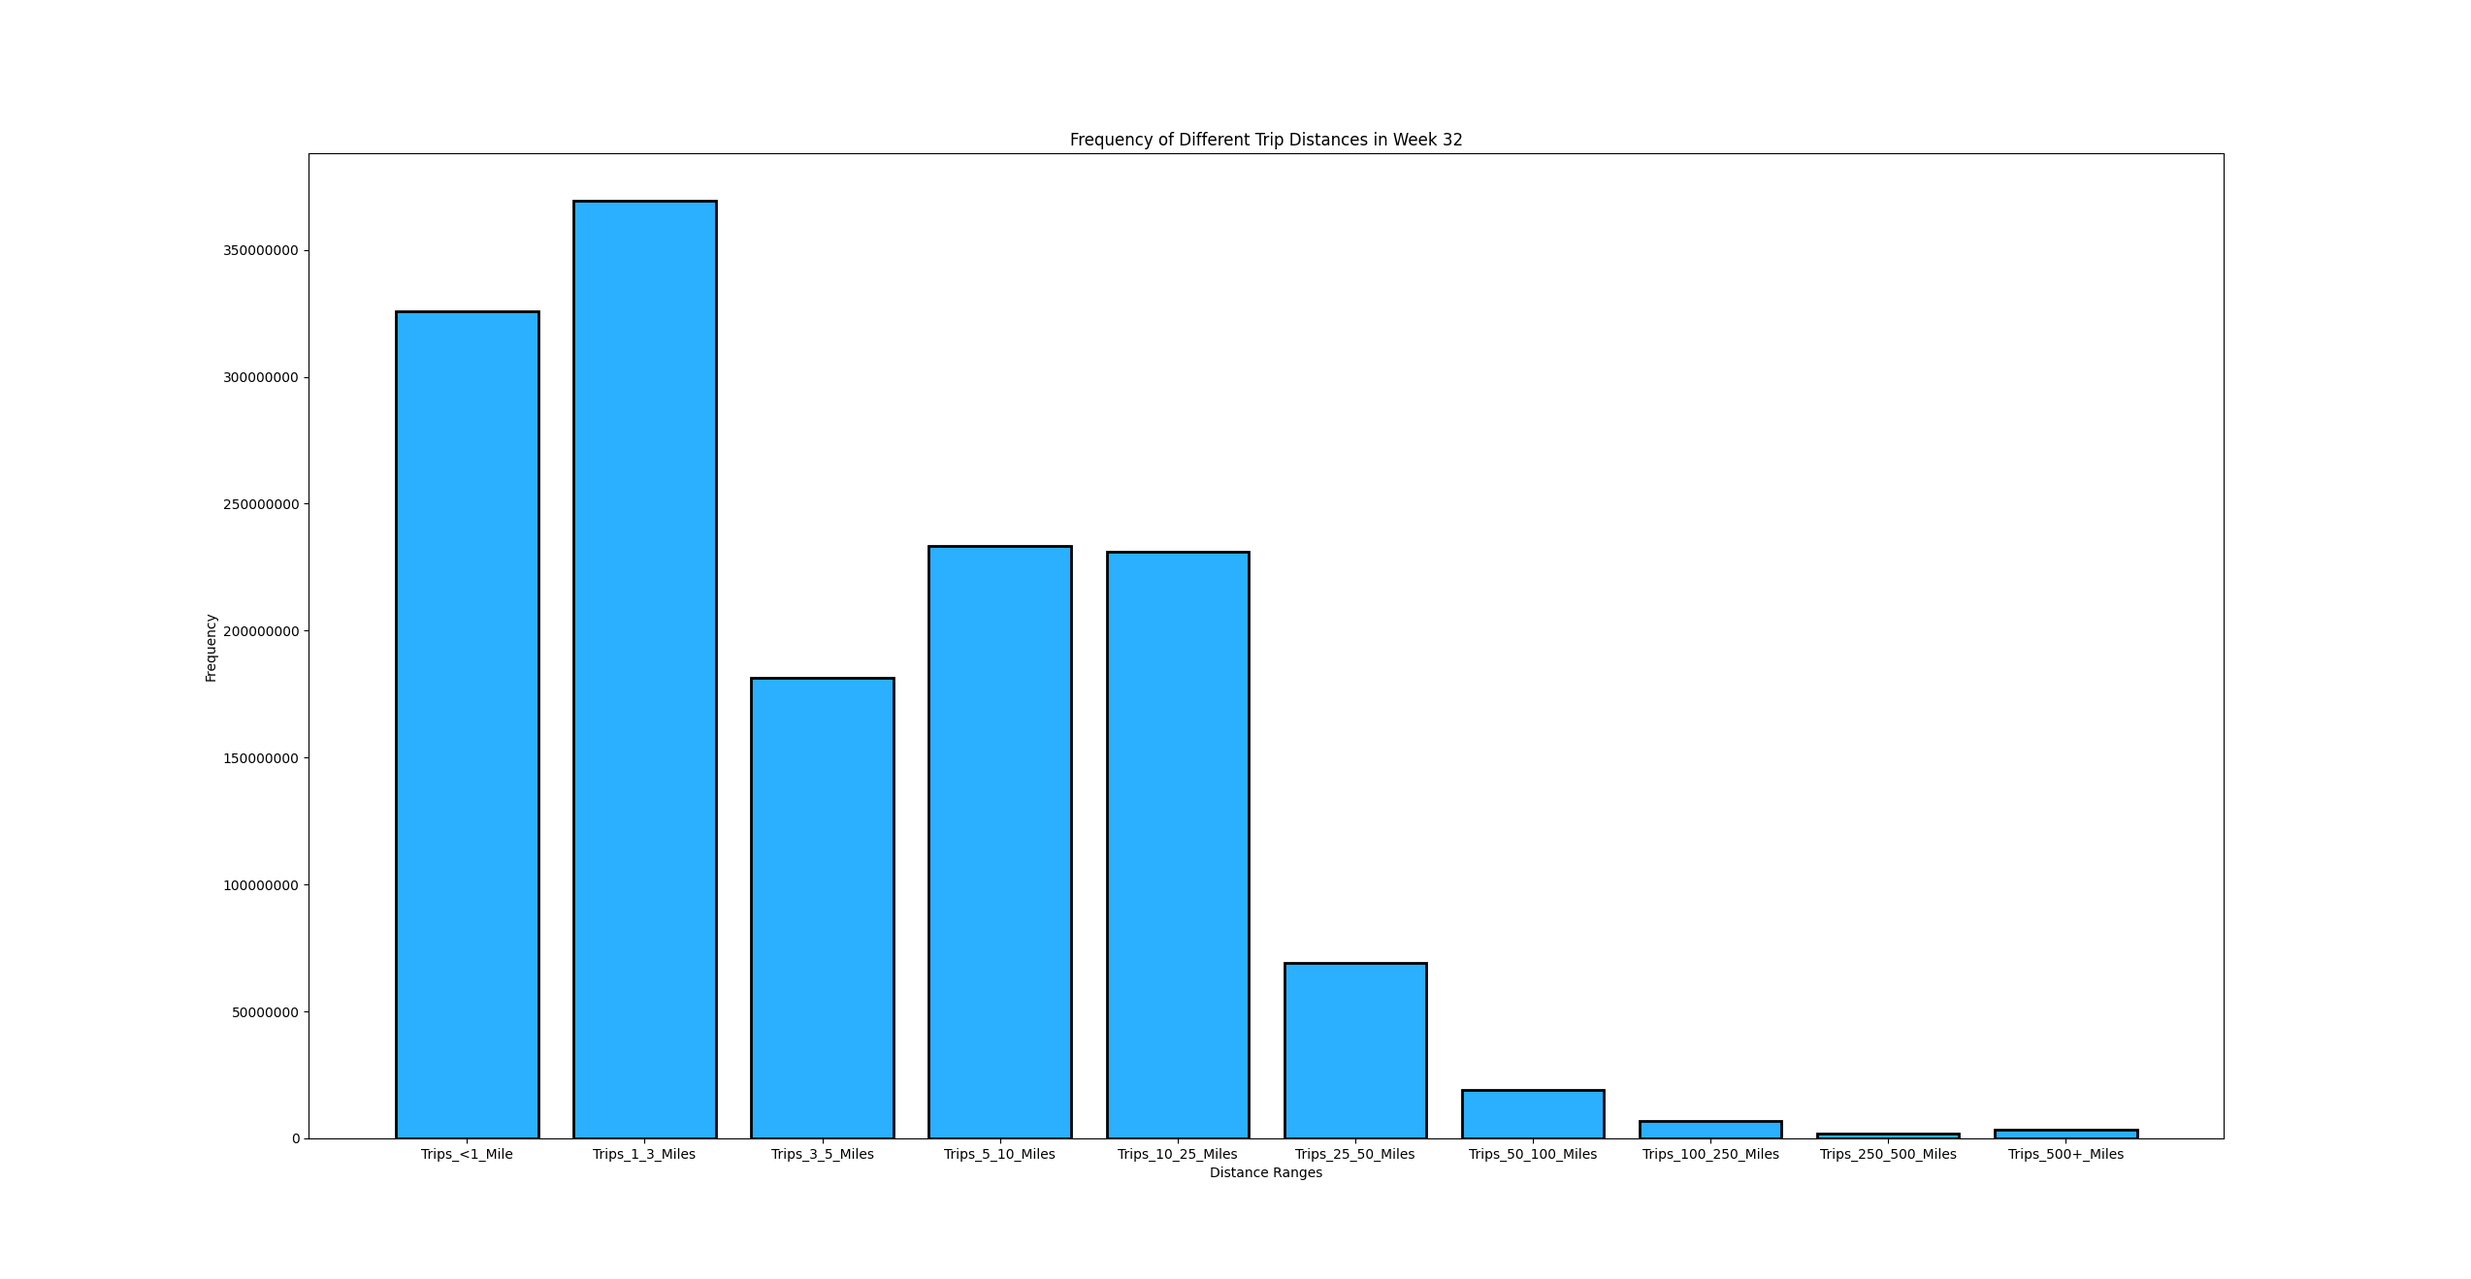
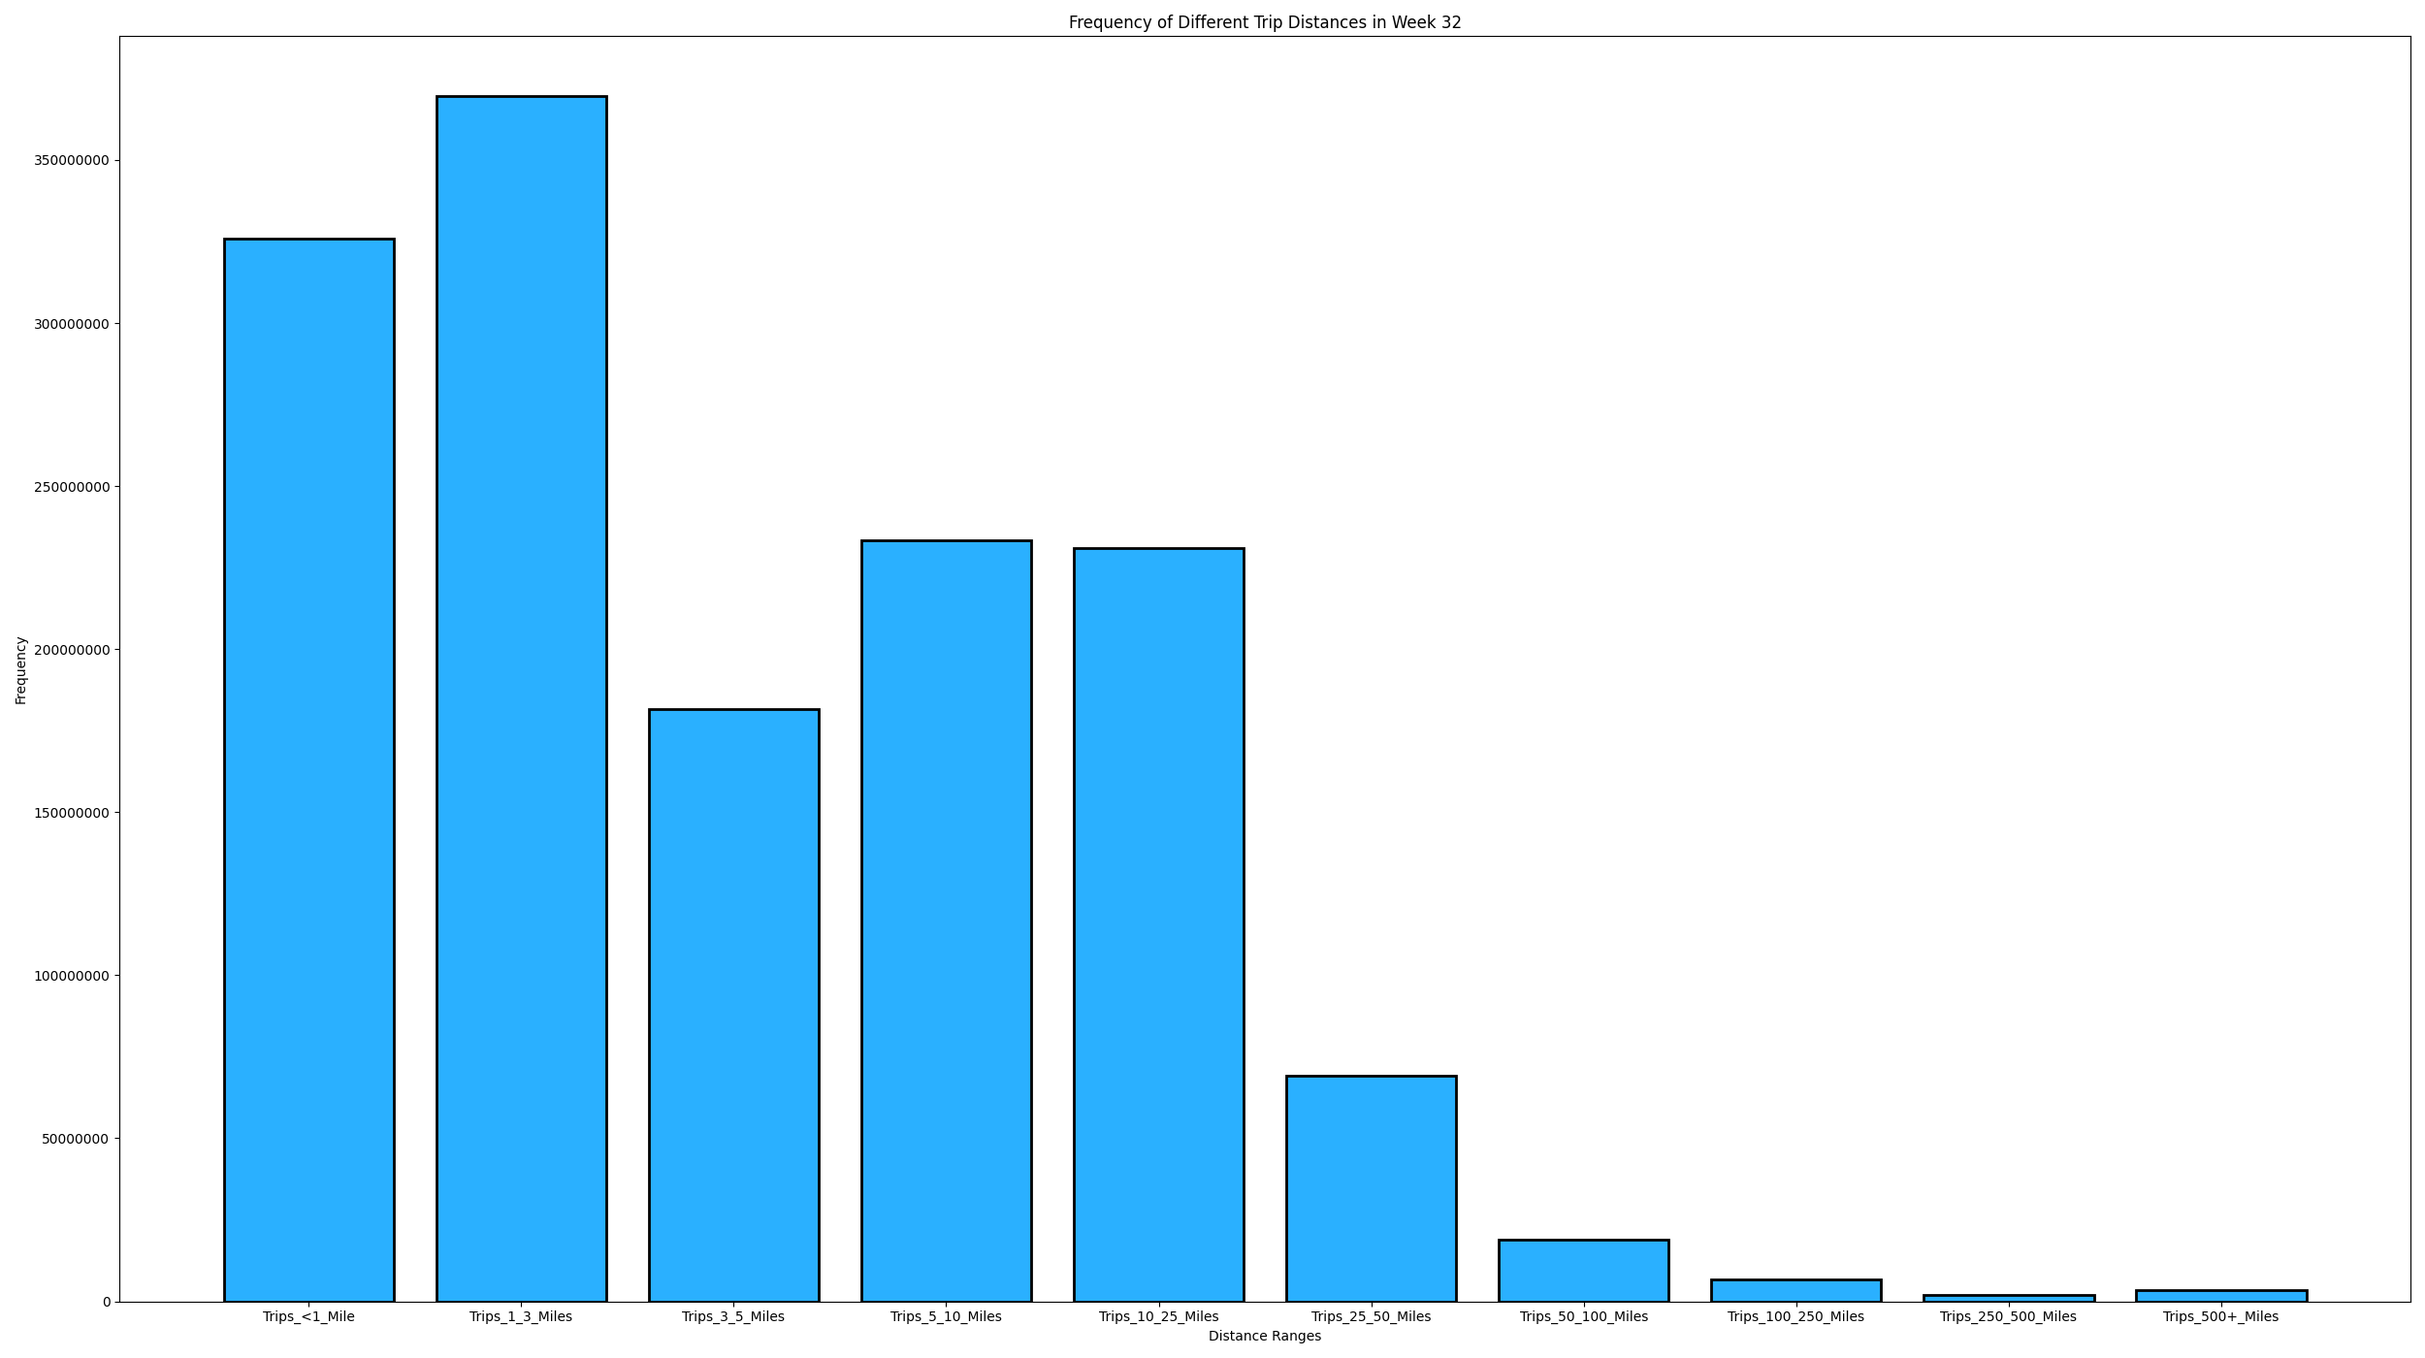
11/04/24

diff --git a/main.py b/main.py
@@ -101,7 +101,7 @@ def week32_dist_mean(dataframe):
 
 # Histogram for weekly number of people staying at home
 def weekly_home_hist(data):
-    bins = [10000000 * i for i in range(4,13)] # Creating Histogram bins
+    bins = [5000000 * i for i in range(8,26)] # Creating Histogram bins
 
     # Histogram Setup and Customisation
     plt.hist(data, bins = bins, facecolor = '#2ab0ff', edgecolor = '#000000', linewidth = 2)
@@ -110,6 +110,10 @@ def weekly_home_hist(data):
     plt.title('Frequency of Average Weekly People Staying at Home')
     plt.xlabel('Number of People Staying at Home')
     plt.ylabel('Frequency')
+
+    plt.gcf().set_size_inches(25,13.8)
+    plt.tight_layout()
+    plt.savefig('Plots/A_People_Staying_at_Home_Hist.png', dpi = 100)
 
 # Histogram for frequency of 
 def weekly_dist_bar(data):
@@ -120,6 +124,10 @@ def weekly_dist_bar(data):
     plt.title('Frequency of Different Trip Distances in Week 32')
     plt.xlabel('Distance Ranges')
     plt.ylabel('Frequency')
+
+    plt.gcf().set_size_inches(25,14)
+    plt.tight_layout()
+    plt.savefig('Plots/A_Week32_Dist_Bar.png', dpi = 100)
 
 # Runs the required to code to the desire outcomes for Section A
 def section_A(ddf_num, ddf_dist):
@@ -135,7 +143,8 @@ def section_A(ddf_num, ddf_dist):
 
     print(f"Section A Graph 1 Time: {round(time.time() - start_time, 5)}s")
 
-    plt.show()
+    # plt.show()
+    plt.close()
 
     start_time = time.time()
 
@@ -144,7 +153,8 @@ def section_A(ddf_num, ddf_dist):
 
     print(f"Section A Graph 2 Time: {round(time.time() - start_time, 5)}s")
 
-    plt.show()
+    # plt.show()
+    plt.close()
     
 
 # ---------------------------------------------------------------------------------------------------------------------------------------------------------------------------------- 
@@ -171,33 +181,37 @@ def min_trips(dataframe, level, specific = None):
 
 # Find days with a miniimum of 10000000 people taking 10-25 trips on a National Level
 def min_trips_national(partition):
-    data = partition[(partition.Number_of_Trips_10_25 >= 10000000)][["Date", "Number_of_Trips_10_25", "Number_of_Trips_25_50"]]
+    data = partition[(partition.Number_of_Trips_10_25 >= 10000000)][["Date", "Number_of_Trips_10_25", "Number_of_Trips_50_100"]]
     return data
 
 # Find days with a miniimum of 10000000 people taking 10-25 trips in a given State
 def min_trips_state(partition,state):
-    data = partition[(partition.Number_of_Trips_10_25 >= 10000000) & (partition.State_Postal_Code == state)][["Date", "Number_of_Trips_10_25", "Number_of_Trips_25_50"]]
+    data = partition[(partition.Number_of_Trips_10_25 >= 10000000) & (partition.State_Postal_Code == state)][["Date", "Number_of_Trips_10_25", "Number_of_Trips_50_100"]]
     return data
 
 # Find days with a miniimum of 10000000 people taking 10-25 trips in a given County
 def min_trips_county(partition,county):
     days = []
-    data = partition[(partition.Number_of_Trips_10_25 >= 10000000) & (partition.County_Name == county)][["Date", "Number_of_Trips_10_25", "Number_of_Trips_25_50"]]
+    data = partition[(partition.Number_of_Trips_10_25 >= 10000000) & (partition.County_Name == county)][["Date", "Number_of_Trips_10_25", "Number_of_Trips_50_100"]]
     return data
 
 # Generates a scatter graph with appropriate foramtting given the x and y data
 def trip_len_scatter(xdata,ydata):
     plt.scatter(xdata, ydata, facecolor = '#2ab0ff', edgecolor = '#169acf', alpha = 0.5)
-    plt.ticklabel_format(useOffset=False, style='plain')
+    # plt.ticklabel_format(useOffset=False, style='plain')
 
     best_coef = np.polyfit(xdata,ydata,1)
     best_points = np.poly1d(best_coef)
 
     plt.plot(xdata,best_points(xdata),"r--")
 
-    plt.title('Number of People doing between 10-25 Trips vs Number of People doing between 25-50 Trips')
+    plt.title('Number of People doing between 10-25 Trips vs Number of People doing between 50-100 Trips')
     plt.xlabel('Number of People doing 10-25 Trips')
-    plt.ylabel('Number of People doing 25-50 Trips')
+    plt.ylabel('Number of People doing 50-100 Trips')
+
+    plt.gcf().set_size_inches(25,13.8)
+    plt.tight_layout()
+    plt.savefig('Plots/B_10_25_vs_50_100_Scatter.png', dpi = 100)
     
 # Runs all corresponding functions for Section B
 def section_B(ddf_num):
@@ -206,16 +220,18 @@ def section_B(ddf_num):
     data = min_trips(ddf_num, 'National')
     dates = data["Date"].tolist()
 
-    print(f"Dates that >10000000 did 10-25 trips: \n {dates}")
+    # print(f"Number of Dates that >10000000 did 10-25 trips: {len(dates)}")
+    # print(f"Dates that >10000000 did 10-25 trips: \n {dates}")
 
     trips10 = data["Number_of_Trips_10_25"].tolist()
-    trips25 = data["Number_of_Trips_25_50"].tolist()
+    trips50 = data["Number_of_Trips_50_100"].tolist()
 
-    trip_len_scatter(trips10,trips25)
+    trip_len_scatter(trips10,trips50)
 
     print(f"Section B Time: {round(time.time() - start_time, 5)}s")
 
-    plt.show()
+    # plt.show()
+    plt.close()
         
 # ---------------------------------------------------------------------------------------------------------------------------------------------------------------------------------- 
 # Section D
@@ -223,7 +239,7 @@ def section_B(ddf_num):
 
 # Generated a subplot for with a given combination of columns from both tables
 def scatter_sub(trips_dist,trips_num,plot_args):
-    print(f"Started: {plot_args[2]}")
+    # print(f"Started: {plot_args[2]}")
     try:
         xdata = np.array(trips_dist[plot_args[0]])
         ydata = np.array(trips_num[plot_args[1]])
@@ -240,9 +256,10 @@ def scatter_sub(trips_dist,trips_num,plot_args):
         plt.xlabel(plot_args[0])
         plt.ylabel(plot_args[1])
         plt.savefig(f'Plots/Distance_Scatters/plot{plot_args[2]}.png', bbox_inches='tight', pad_inches=0)
+        plt.close()
     except Exception as Error: 
         print(f"Error {Error} on {plot_args[2]}")
-    print(f"Finished: {plot_args[2]}")
+    # print(f"Finished: {plot_args[2]}")
 
 # Generates all the plots for the all the combinations of trips distance and trips num
 def distance_model(trips_num, trips_dist):
@@ -278,6 +295,11 @@ def distance_model(trips_num, trips_dist):
     plt.tight_layout()
     plt.subplots_adjust(wspace=0, hspace=0)
     
+    plt.gcf().set_size_inches(25,13.8)
+    plt.tight_layout()
+    plt.savefig('Plots/D_Dist_Model_Scatter_Spread.png', dpi = 100)
+    plt.close()
+
     
 # Runs all the function for Section D    
 def section_D(ddf_num,ddf_dist):
@@ -285,9 +307,10 @@ def section_D(ddf_num,ddf_dist):
 
     distance_model(ddf_num,ddf_dist)
 
-    print(f"Section D Plot Generation Time: {round(time.time() - start_time,2)}s")
+    print(f"Section D Time: {round(time.time() - start_time,5)}s")
 
-    plt.show()
+    # plt.show()
+    plt.figure().clear()
 
 
 # ---------------------------------------------------------------------------------------------------------------------------------------------------------------------------------- 
@@ -305,13 +328,19 @@ def section_E(ddf_dist):
     for column in column_headers:
         dist_avgs[column] = data[column].mean().compute()
 
-    print(dist_avgs.values())
     plt.pie(dist_avgs.values(), labels = dist_avgs.keys())
     plt.title("Distribution of Different Trip Distances")
-    plt.show()
+    
+    plt.gcf().set_size_inches(25,13.8)
+    plt.tight_layout()
+    plt.savefig('Plots/E_Week32_Dist_Pie', dpi = 100)
+
+    print(f"Section E Time: {round(time.time() - start_time,5)}s")
+
+    # plt.show()
+    plt.close()
 
     
-
 # ---------------------------------------------------------------------------------------------------------------------------------------------------------------------------------- 
 # Main Body
 # ---------------------------------------------------------------------------------------------------------------------------------------------------------------------------------- 
@@ -319,71 +348,85 @@ def section_E(ddf_dist):
 
 if __name__ == '__main__':    
 
-    setup_start_time = time.time()
+    
 
-    client = Client(threads_per_worker = 4, n_workers = 5)
+    dask.config.set({'logging.distributed': 'error'})
 
-    ddf_dist = dd.read_csv('Data/Trips_by_Distance.csv',
+    for processor in [1,5,10,15,20,25]:
+        
+        start_time = time.time()
+
+        client = Client(n_workers = processor, memory_limit = '4GB')
+
+        ddf_dist = dd.read_csv('Data/Trips_by_Distance.csv',
+                                dtype = {
+                                    "Level": "string",
+                                    "Date": "string",
+                                    "State": "string",
+                                    "FIPS": "Int64",
+                                    "State_Postal_Code": "string",
+                                    "County_FIPS": "Int64",
+                                    "County_Name": "string",
+                                    "Population_Staying_at_Home": "Int64",
+                                    "Population_Not_Staying_at_Home": "Int64",
+                                    "Number_of_Trips": "Int64",
+                                    "Number_of_Trips_<1": "Int64",
+                                    "Number_of_Trips_1_3": "Int64",
+                                    "Number_of_Trips_3_5": "Int64",
+                                    "Number_of_Trips_5_10": "Int64",
+                                    "Number_of_Trips_10_25": "Int64",
+                                    "Number_of_Trips_25_50": "Int64",
+                                    "Number_of_Trips_50_100": "Int64",
+                                    "Number_of_Trips_100_250": "Int64",
+                                    "Number_of_Trips_250_500": "Int64",
+                                    "Number_of_Trips_>=500": "Int64",
+                                    "Row_ID": "string",
+                                    "Week": "Int64",
+                                    "Month": "Int64"})
+        
+        ddf_full = dd.read_csv('Data/Trips_Full_Data.csv',
                             dtype = {
+                                "Month_of_Date": "string",
+                                "Week_of_Date": "string",
+                                "Year_of_Date": "Int64",
                                 "Level": "string",
                                 "Date": "string",
-                                "State": "string",
-                                "FIPS": "Int64",
-                                "State_Postal_Code": "string",
-                                "County_FIPS": "Int64",
-                                "County_Name": "string",
+                                "Week_Ending_Date": "string",
+                                "Trips_<1_Mile": "Int64",
+                                "People_Not_Staying_at_Home": "Int64",
                                 "Population_Staying_at_Home": "Int64",
-                                "Population_Not_Staying_at_Home": "Int64",
-                                "Number_of_Trips": "Int64",
-                                "Number_of_Trips_<1": "Int64",
-                                "Number_of_Trips_1_3": "Int64",
-                                "Number_of_Trips_3_5": "Int64",
-                                "Number_of_Trips_5_10": "Int64",
-                                "Number_of_Trips_10_25": "Int64",
-                                "Number_of_Trips_25_50": "Int64",
-                                "Number_of_Trips_50_100": "Int64",
-                                "Number_of_Trips_100_250": "Int64",
-                                "Number_of_Trips_250_500": "Int64",
-                                "Number_of_Trips_>=500": "Int64",
-                                "Row_ID": "string",
-                                "Week": "Int64",
-                                "Month": "Int64"})
-    
-    ddf_full = dd.read_csv('Data/Trips_Full_Data.csv',
-                           dtype = {
-                               "Month_of_Date": "string",
-                               "Week_of_Date": "string",
-                               "Year_of_Date": "Int64",
-                               "Level": "string",
-                               "Date": "string",
-                               "Week_Ending_Date": "string",
-                               "Trips_<1_Mile": "Int64",
-                               "People_Not_Staying_at_Home": "Int64",
-                               "Population_Staying_at_Home": "Int64",
-                               "Trips": "Int64",
-                               "Trips_1_25_Miles": "Int64",
-                               "Trips_1_3_Miles": "Int64",
-                               "Trips_10_25_Miles": "Int64",
-                               "Trips_100_250_Miles": "Int64",
-                               "Trips_100+_Miles": "Int64",
-                               "Trips_25_100_Miles": "Int64",
-                               "Trips_25_50_Miles": "Int64",
-                               "Trips_250_500_Miles": "Int64",
-                               "Trips_3_5_Miles": "Int64",
-                               "Trips_5_10_Miles": "Int64",
-                               "Trips_50_100_Miles": "Int64",
-                               "Trips_500+_Miles": "Int64"})
-    
-    global STATES, COUNTIES
-    STATES = sorted(ddf_dist['State_Postal_Code'].unique().compute().tolist()[1:])
-    COUNTIES = sorted(ddf_dist['County_Name'].unique().compute().tolist()[1:])
+                                "Trips": "Int64",
+                                "Trips_1_25_Miles": "Int64",
+                                "Trips_1_3_Miles": "Int64",
+                                "Trips_10_25_Miles": "Int64",
+                                "Trips_100_250_Miles": "Int64",
+                                "Trips_100+_Miles": "Int64",
+                                "Trips_25_100_Miles": "Int64",
+                                "Trips_25_50_Miles": "Int64",
+                                "Trips_250_500_Miles": "Int64",
+                                "Trips_3_5_Miles": "Int64",
+                                "Trips_5_10_Miles": "Int64",
+                                "Trips_50_100_Miles": "Int64",
+                                "Trips_500+_Miles": "Int64"})
 
-    print(f"\nSetup Time: {round(time.time() - setup_start_time, 5)}s")
+        global STATES, COUNTIES
+        STATES = sorted(ddf_dist['State_Postal_Code'].unique().compute().tolist()[1:])
+        COUNTIES = sorted(ddf_dist['County_Name'].unique().compute().tolist()[1:])
 
-    section_A(ddf_dist, ddf_full)
+        print(f"\nProcessor Number: {processor}")
 
-    # section_B(ddf_dist)
+        print(f"Setup Time: {round(time.time() - start_time, 5)}s")
 
-    # section_D(ddf_dist, ddf_full)
+        section_A(ddf_dist, ddf_full)
 
-    # section_E(ddf_full)
+        section_B(ddf_dist)
+
+        section_D(ddf_dist, ddf_full)
+
+        section_E(ddf_full)
+
+        client.shutdown()
+
+        print(f"Total Time: {round(time.time() - start_time, 5)}s")
+        
+        print("\n")
